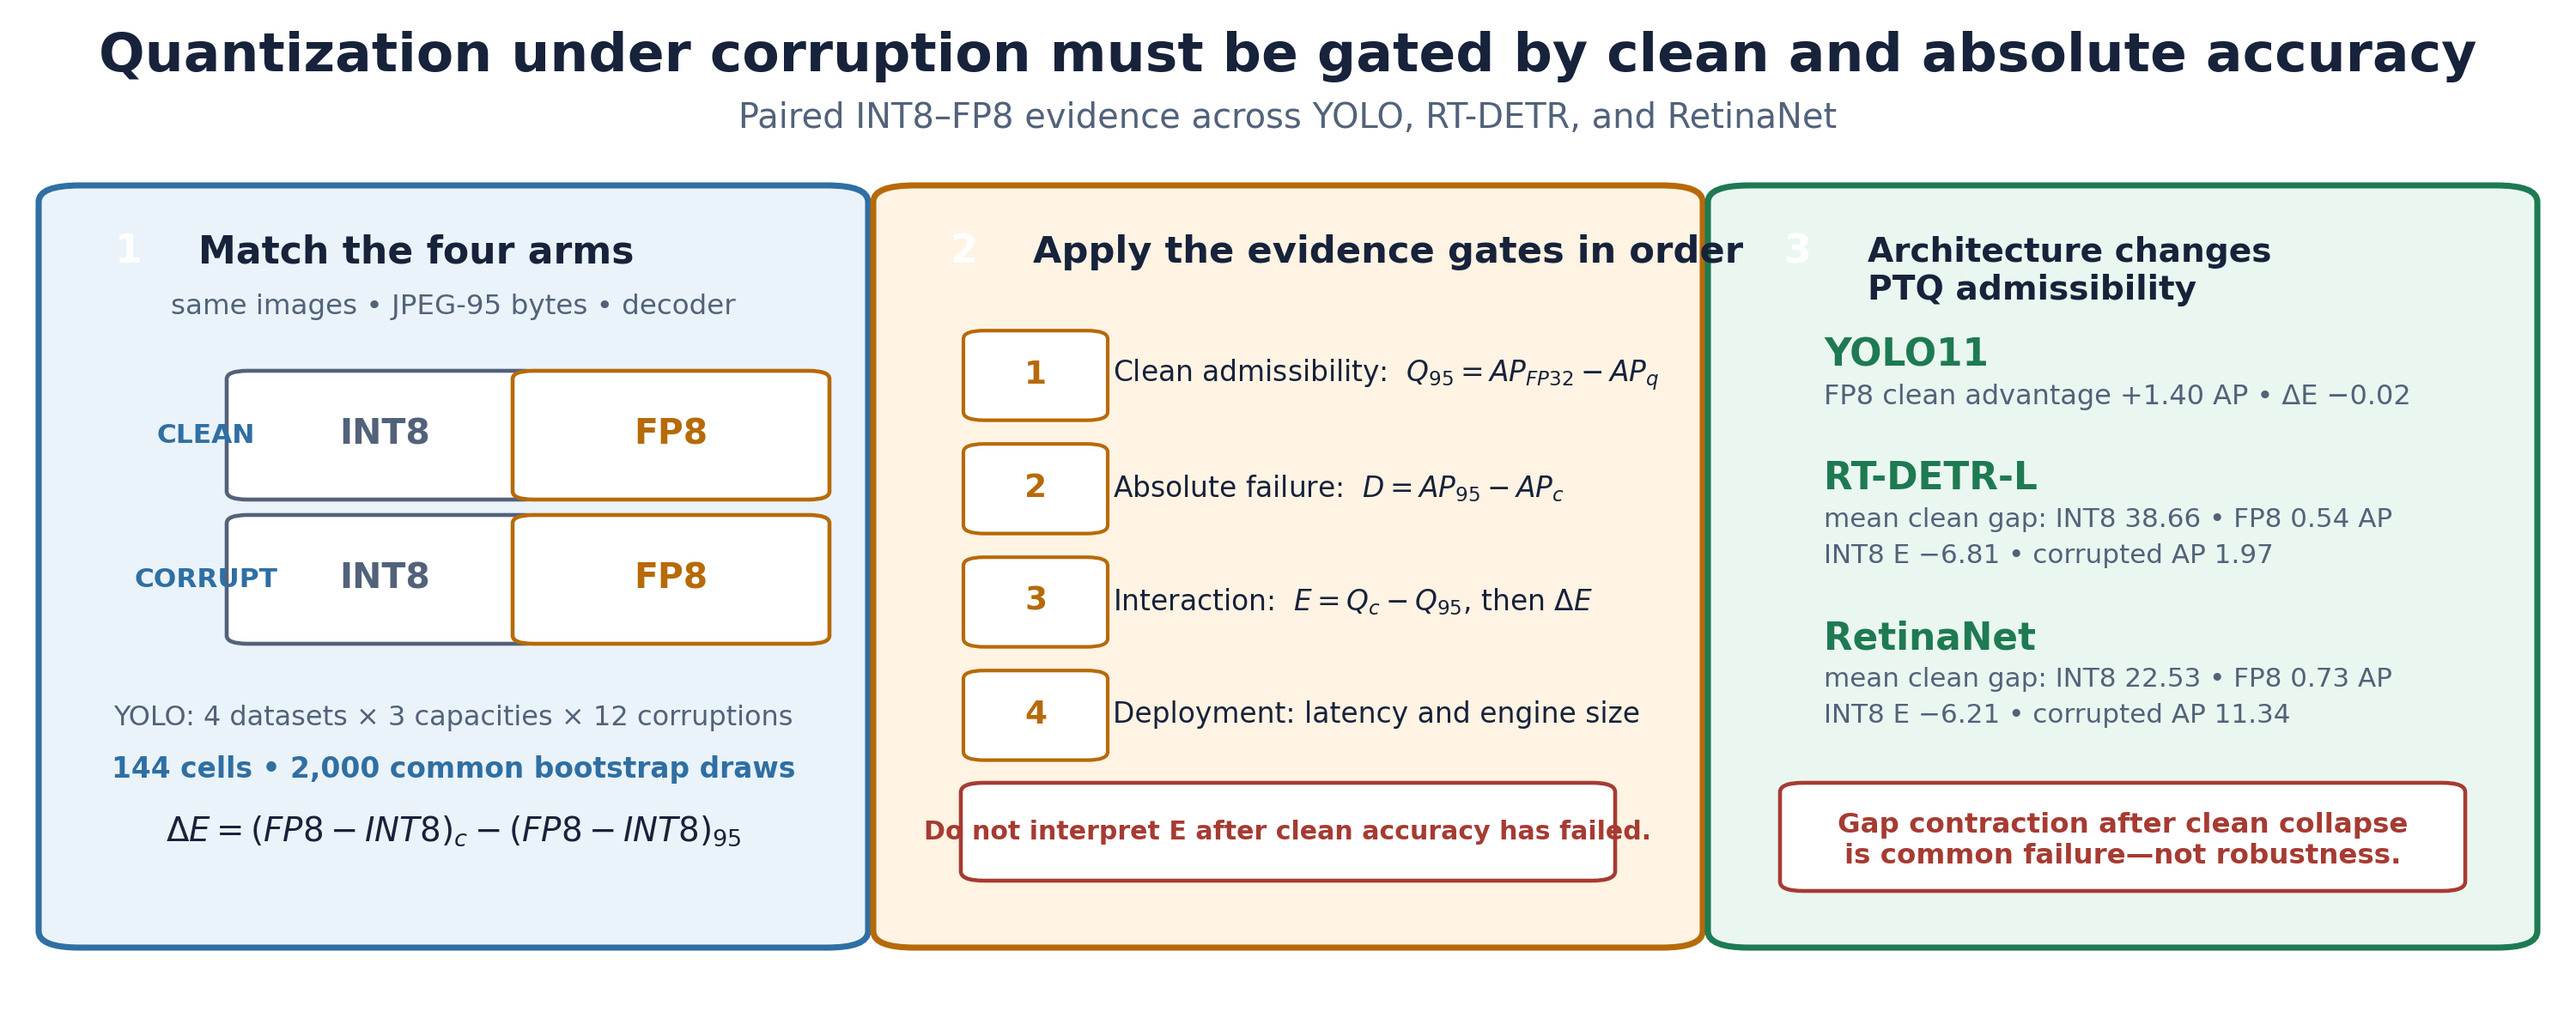
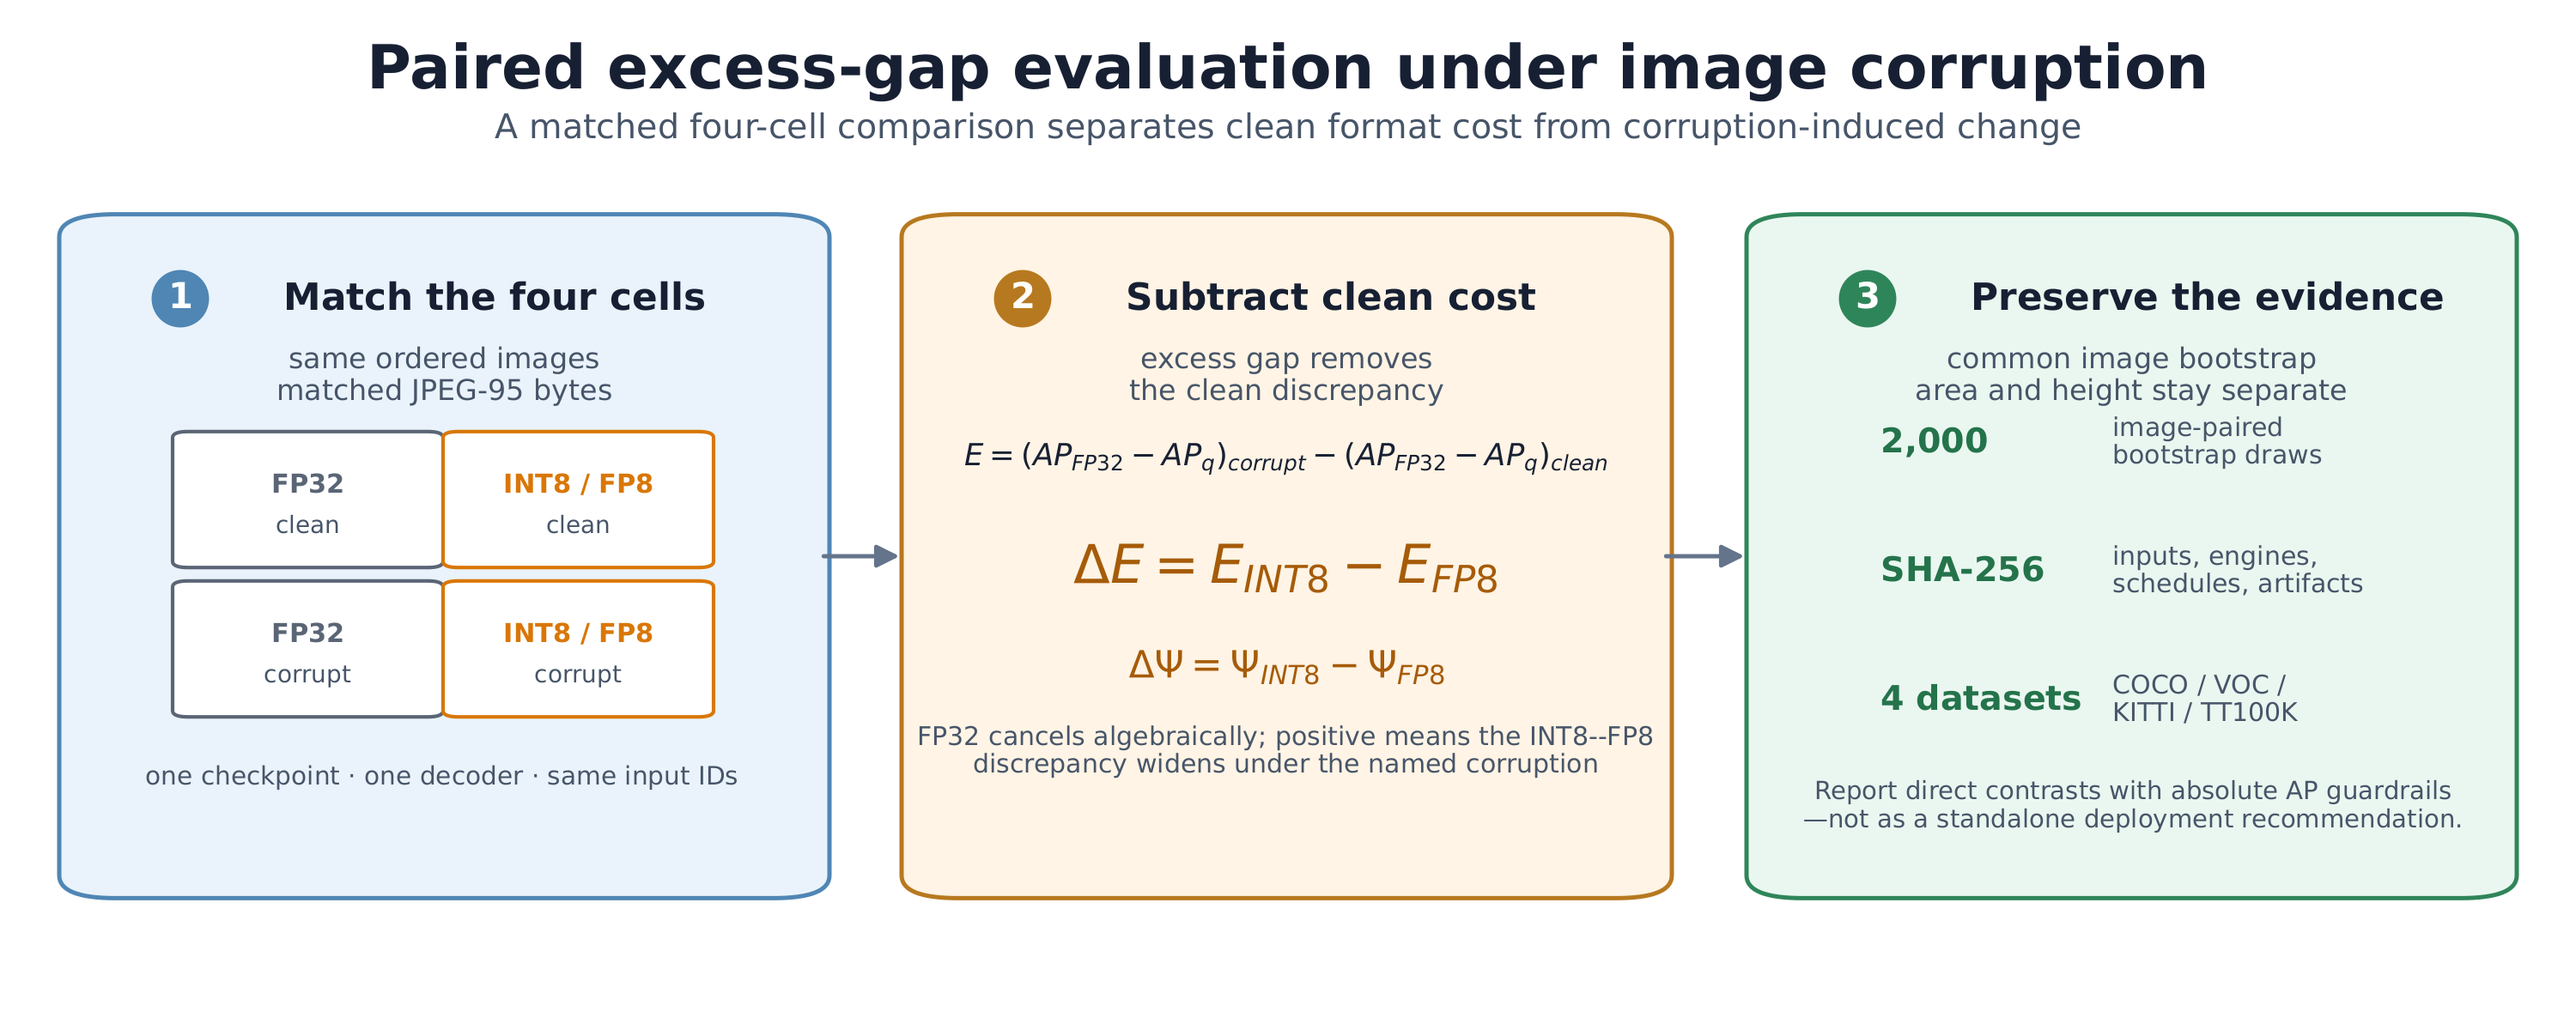
Restore graphical abstract and confirm submission mapping

Changed region(s): [[0.0, 0.0308, 0.992, 0.925]]

diff --git a/paper/AUTHOR_CHECKLIST.md b/paper/AUTHOR_CHECKLIST.md
@@ -5,9 +5,9 @@ The scientific source is internally validated, but the following statements requ
 - [x] **Funding:** the authors confirmed that the research received no specific funding; copy the no-specific-grant statement from `main.tex` into the submission system.
 - [x] **Authorship:** the author order, spelling, affiliations, corresponding-author email, ORCIDs, and CRediT roles were confirmed by the submitting author.
 - [ ] **Generative-AI declaration:** verify that OpenAI Codex, OpenAI ChatGPT, and Anthropic Claude Code are the complete and accurate tool list, and that the described human review matches actual use.
-- [ ] **Graphical abstract:** confirm the creation workflow, rights to every component, and compliance with the journal's current policy on generative AI and image manipulation.
+- [x] **Graphical abstract:** the submitting author confirmed that the graphical abstract is author-created and that the authors hold the necessary rights; upload `graphical_abstract.png` as the separate Graphical Abstract item.
 - [ ] **Data/code availability:** confirm that the uploaded files match the availability statement and that no restricted dataset, checkpoint, engine, prediction, credential, or personal data is included.
-- [ ] **Supplementary upload mapping:** upload `preview/supplement.pdf` as Supplementary Information S1 and `supplementary_data_s2.zip` as Supplementary Data S2.
+- [x] **Supplementary upload mapping:** the submitting author confirmed the mapping: `preview/supplement.pdf` as Supplementary Information S1 and `supplementary_data_s2.zip` as Supplementary Data S2.
 - [x] **Public archive:** release `v2.0.0` is archived at DOI `10.5281/zenodo.22031664`; verify that the final submission metadata uses this exact version-specific DOI.
 - [ ] **Submission metadata:** copy the final title, abstract, keywords, highlights, declarations, and corresponding-author details exactly into Editorial Manager.
 - [ ] **Final visual check:** open the uploaded PDF generated by the journal system and inspect equations, author affiliations, figures, tables, and references after conversion.

diff --git a/paper/CHANGELOG.md b/paper/CHANGELOG.md
@@ -42,6 +42,7 @@
 
 ## Submission package
 
+- Restored the author-created graphical abstract PNG from its vector PDF source and prepared a minimal standalone Overleaf package.
 - Added the authors' confirmed no-specific-funding declaration and confirmed the manuscript authorship metadata.
 - Archived software release `v2.0.0` under DOI `10.5281/zenodo.22031664` and updated the citation and availability metadata.
 - Rewrote the title, abstract, highlights, Introduction, Related Work, Methods, Results, Discussion, Conclusion, and Supplementary Information.
